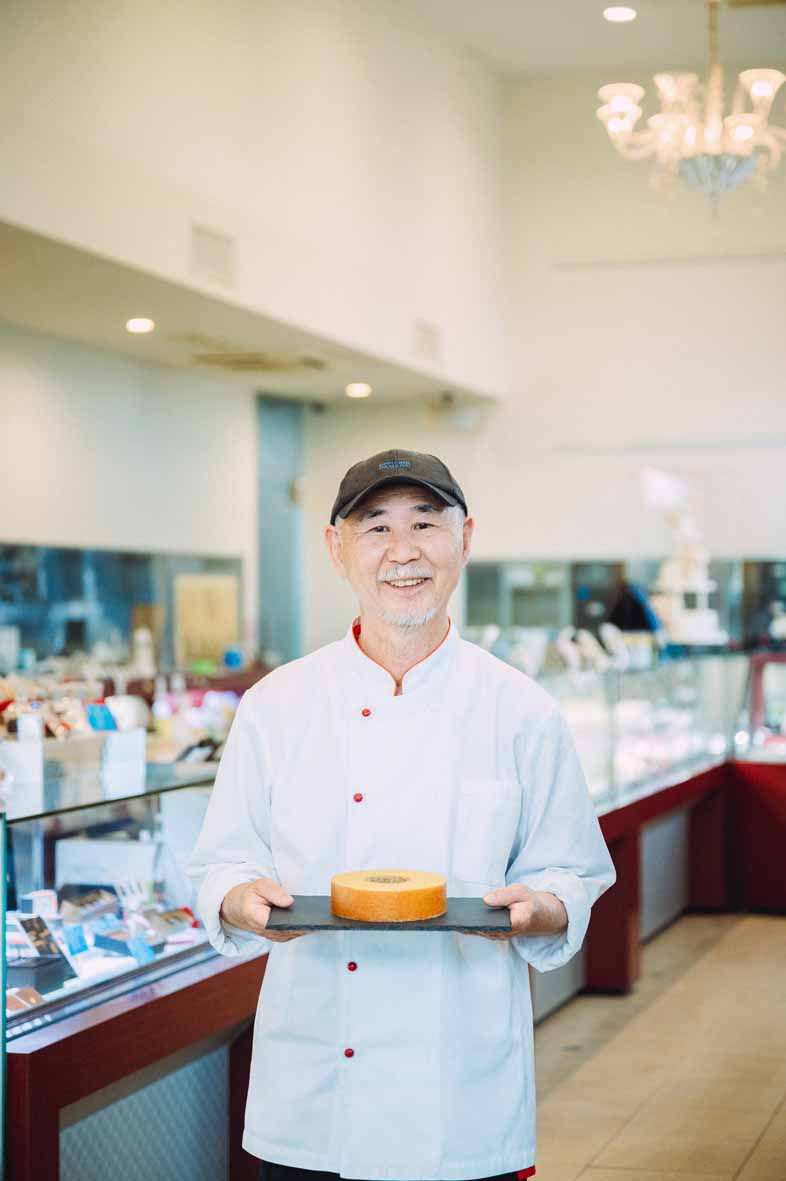
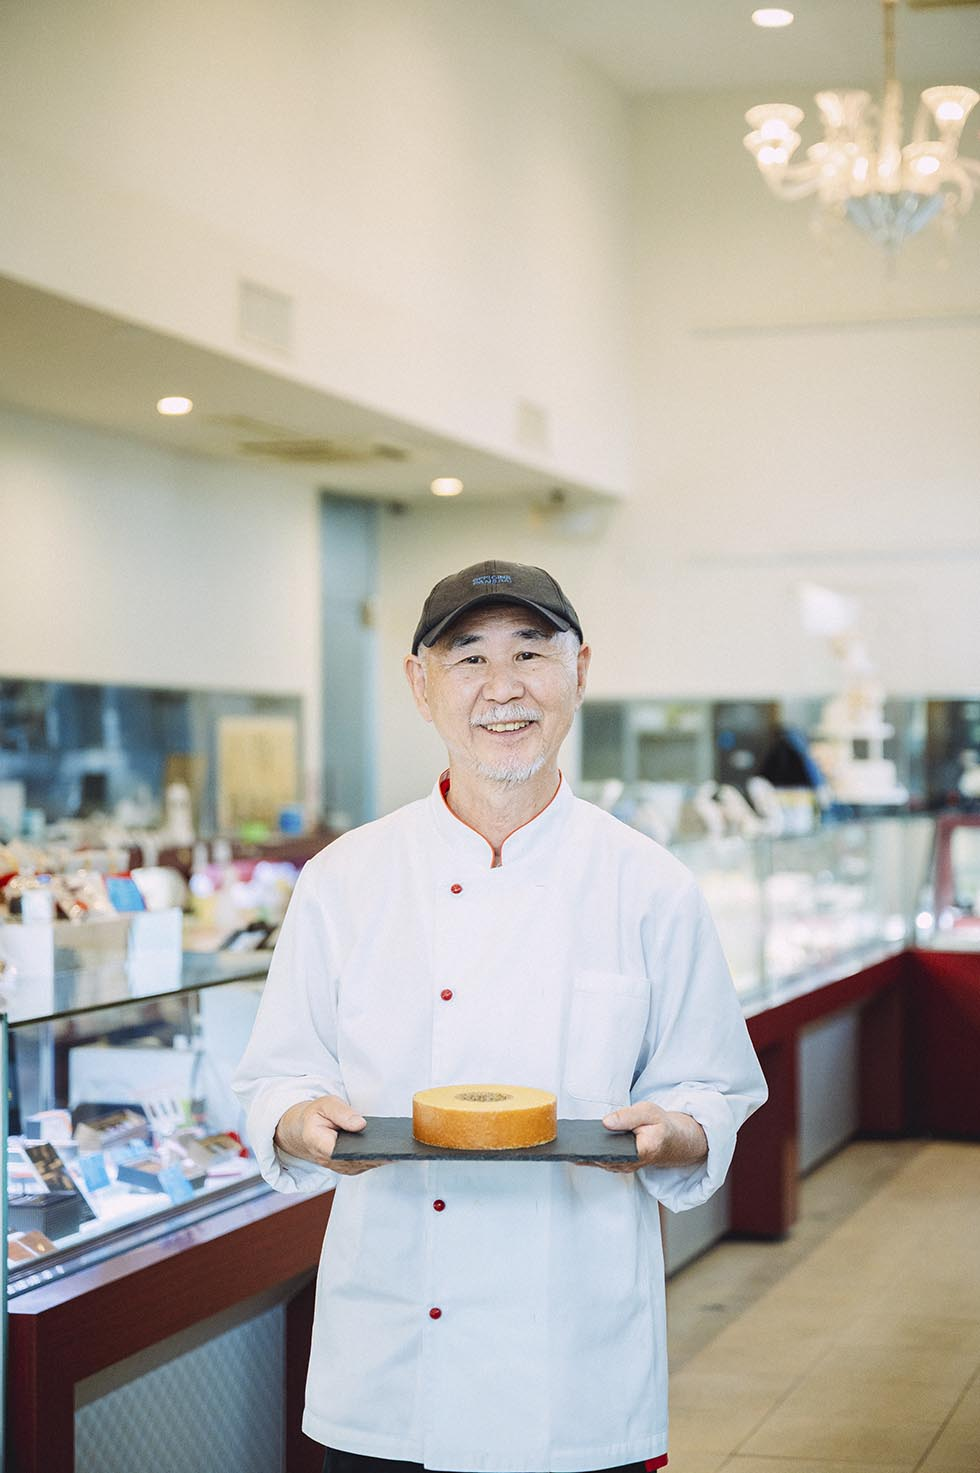
アナライティクスタグ等設置

diff --git a/src/app/layout.tsx b/src/app/layout.tsx
@@ -2,10 +2,11 @@
  *熊日すぱいす Layout
  * URL:src/app/layout.tsx
  * Created: 2026-04-04
- * Last updated: 2026-04-04
+ * Last updated: 2026-05-15
  * ======================================= */
 
 import type { Metadata } from 'next';
+import Script from 'next/script';
 import '@/styles/globals.scss';
 import SvgDefs from '@/components/SvgDefs';
 import { isRealProduction } from '@/lib/env';
@@ -97,6 +98,23 @@ export default function RootLayout({
         <meta name="viewport" content="width=device-width, initial-scale=1" />
       </head>
       <body>
+        <noscript>
+          <iframe
+            src="https://www.googletagmanager.com/ns.html?id=GTM-WVQBTF33"
+            height="0"
+            width="0"
+            style={{ display: 'none', visibility: 'hidden' }}
+          />
+        </noscript>
+        <Script id="google-tag-manager" strategy="afterInteractive">
+          {`
+            (function(w,d,s,l,i){w[l]=w[l]||[];w[l].push({'gtm.start':
+            new Date().getTime(),event:'gtm.js'});var f=d.getElementsByTagName(s)[0],
+            j=d.createElement(s),dl=l!='dataLayer'?'&l='+l:'';j.async=true;j.src=
+            'https://www.googletagmanager.com/gtm.js?id='+i+dl;f.parentNode.insertBefore(j,f);
+            })(window,document,'script','dataLayer','GTM-WVQBTF33');
+          `}
+        </Script>
         <SvgDefs />
         <main>{children}</main>
       </body>

diff --git a/src/components/roots/RootsEventSection.module.scss b/src/components/roots/RootsEventSection.module.scss
@@ -53,11 +53,14 @@
         .wrapDetails {
             position: relative;
             font-size: inherit;
-            padding-inline: 1em;
+            padding-inline: 2vw;
+            @include up-tb {
+                padding-inline: 1em;
+            }
             h4 {
                 font-size: fs-fluid(18);
                 font-weight: 500;
-                margin-top: 1.4em;
+                margin-top: 1em;
                 @include up-tb {
                     font-size: fz(20);
                 }
@@ -69,8 +72,8 @@
                 margin-top: 1.4rem;
                 p {
                     font-size: fs-fluid(16);
-                    line-height: 2em;
-                    min-height: 0.8lh;
+                    line-height: 1.6em;
+                    min-height: 0.6lh;
                     @include up-tb {
                         font-size: fz(16);
                     }
